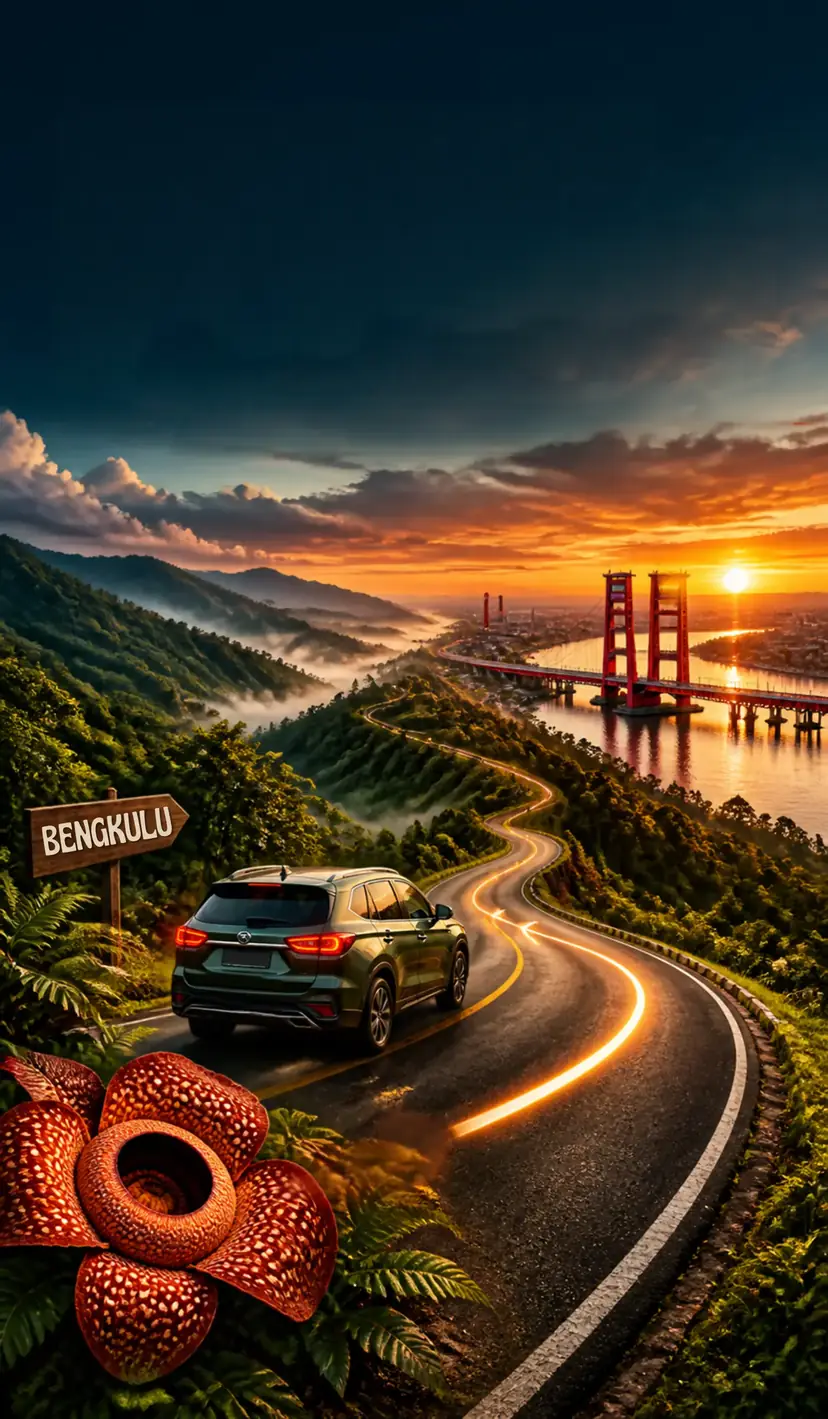
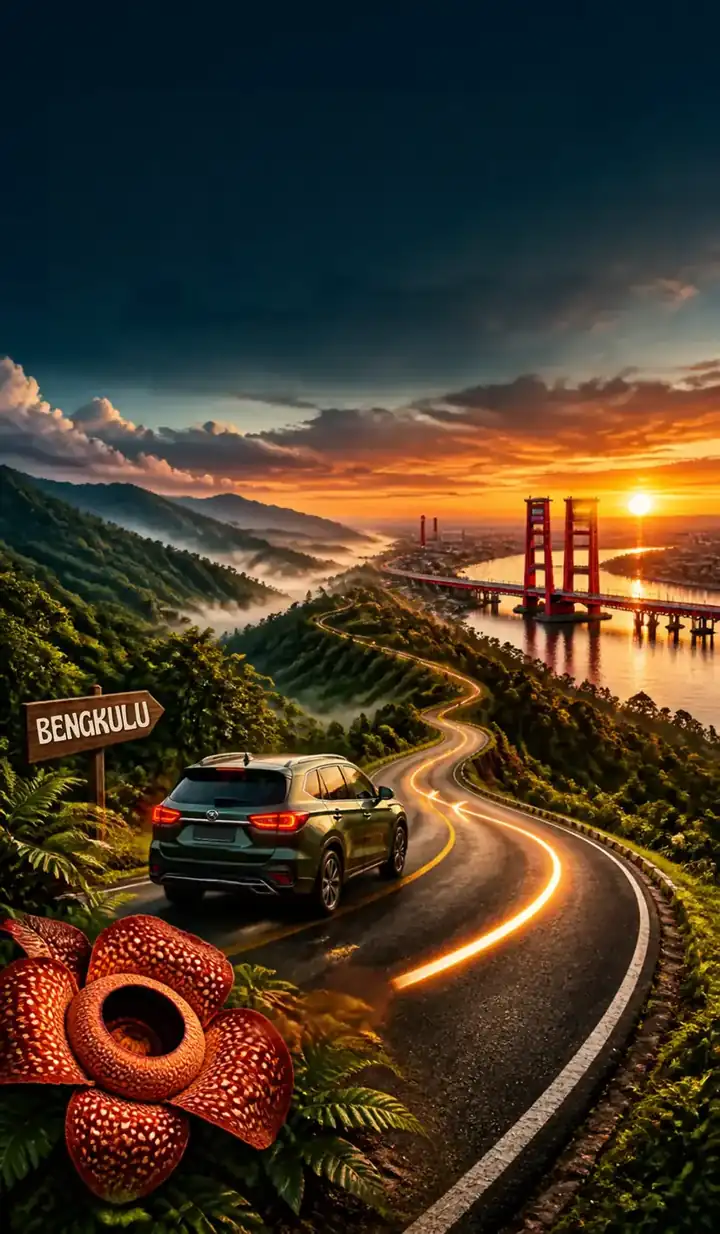
fix(a11y,perf): perbaiki ARIA kartu layanan & menu HP, kompres gambar hero, browserslist modern
- ServiceCard: role=listitem dipindah dari <a> ke wrapper <div> (ARIA role harus sesuai elemen)
- MobileMenu: overlay tertutup kini invisible sehingga link di dalamnya tidak bisa difokuskan saat aria-hidden
- Hero: hero-bengkulu-mobile.webp 114KB -> 73KB (720px, q55), desktop 147KB -> 130KB; tambah width/height pada <img>
- package.json: browserslist modern untuk mengurangi JavaScript versi lama

Changed region(s): [[0.0611, 0.7699, 0.0917, 0.8006]]

diff --git a/src/components/ServiceCard.tsx b/src/components/ServiceCard.tsx
@@ -14,8 +14,9 @@ interface ServiceCardProps {
 
 export default function ServiceCard({ icon, title, description, price, href, badge, image, className = '' }: ServiceCardProps) {
   return (
-    <Link href={href} role="listitem"
-      className={`card group cursor-pointer block hover:-translate-y-1 transition-all duration-300 overflow-hidden ${className}`}>
+    <div role="listitem" className={className}>
+    <Link href={href}
+      className="card group cursor-pointer block h-full hover:-translate-y-1 transition-all duration-300 overflow-hidden">
       {/* Image area */}
       {image ? (
         <div className="relative h-32 md:h-40 w-full overflow-hidden bg-slate-100">
@@ -70,5 +71,6 @@ export default function ServiceCard({ icon, title, description, price, href, bad
         </div>
       </div>
     </Link>
+    </div>
   );
 }

diff --git a/src/components/MobileMenu.tsx b/src/components/MobileMenu.tsx
@@ -30,7 +30,7 @@ export default function MobileMenu({ open, onClose }: { open: boolean; onClose: 
 
   return (
     <div
-      className={`md:hidden fixed inset-0 z-[60] transition-opacity duration-200 ${open ? 'opacity-100' : 'opacity-0 pointer-events-none'}`}
+      className={`md:hidden fixed inset-0 z-[60] transition-[opacity,visibility] duration-200 ${open ? 'visible opacity-100' : 'invisible opacity-0 pointer-events-none'}`}
       aria-hidden={!open}
     >
       <button aria-label="Tutup menu" onClick={onClose} className="absolute inset-0 bg-slate-900/50" tabIndex={open ? 0 : -1} />

diff --git a/src/app/page.tsx b/src/app/page.tsx
@@ -93,6 +93,8 @@ export default function HomePage() {
             <img
               src="/images/hero-bengkulu-mobile.webp"
               alt=""
+              width={720}
+              height={1234}
               fetchPriority="high"
               decoding="async"
               className="absolute inset-0 h-full w-full object-cover object-bottom md:object-center"
